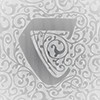
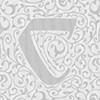
bild für flipside leicht angepasst; weiter aufgeräumt; WeightedEdge durch Edge ersetzt, weil die Gewichtung am Ende doch nicht gebraucht wurde

diff --git a/src/fop/base/Graph.java b/src/fop/base/Graph.java
@@ -19,7 +19,7 @@ import java.util.stream.Collectors;
  */
 public class Graph<T> {
 
-	private List<WeightedEdge<T>> edges;
+	private List<Edge<T>> edges;
 	private List<Node<T>> nodes;
 
 	/**
@@ -57,29 +57,29 @@ public class Graph<T> {
 	 * @return Die erstellte oder bereits vorhandene Kante zwischen beiden gegebenen
 	 *         Knoten
 	 */
-	public WeightedEdge<T> addEdge(Node<T> nodeA, Node<T> nodeB) {
-		WeightedEdge<T> edge = getEdge(nodeA, nodeB);
+	public Edge<T> addEdge(Node<T> nodeA, Node<T> nodeB) {
+		Edge<T> edge = getEdge(nodeA, nodeB);
 		if (edge != null) {
 			return edge;
 		}
 
-		edge = new WeightedEdge<>(nodeA, nodeB);
+		edge = new Edge<>(nodeA, nodeB);
 		this.edges.add(edge);
 		return edge;
 	}
 
-	public WeightedEdge<T> addEdge(Node<T> nodeA, Node<T> nodeB, int weight) {
-		WeightedEdge<T> edge = getEdge(nodeA, nodeB);
+	public Edge<T> addEdge(Node<T> nodeA, Node<T> nodeB, int weight) {
+		Edge<T> edge = getEdge(nodeA, nodeB);
 		if (edge != null) {
 			return edge;
 		}
 
-		edge = new WeightedEdge<>(nodeA, nodeB, weight);
+		edge = new Edge<>(nodeA, nodeB, weight);
 		this.edges.add(edge);
 		return edge;
 	}
 
-	public boolean addAllEdges(Collection<WeightedEdge<T>> edges) {
+	public boolean addAllEdges(Collection<Edge<T>> edges) {
 		return this.edges.addAll(edges); // TODO kann das probleme machen? die methode addEdge prüft vorher noch ob sie
 											// bereits vorhanden ist.
 	}
@@ -98,7 +98,7 @@ public class Graph<T> {
 	 * 
 	 * @return die Liste aller Kanten
 	 */
-	public List<WeightedEdge<T>> getEdges() {
+	public List<Edge<T>> getEdges() {
 		return this.edges;
 	}
 
@@ -123,7 +123,7 @@ public class Graph<T> {
 	 * @see java.util.stream.Stream#collect(Collector)
 	 * @return Die Liste aller zum Knoten zugehörigen Kanten
 	 */
-	public List<WeightedEdge<T>> getEdges(Node<T> node) {
+	public List<Edge<T>> getEdges(Node<T> node) {
 		return this.edges.stream().filter(edge -> edge.contains(node)).collect(Collectors.toList());
 	}
 
@@ -135,7 +135,7 @@ public class Graph<T> {
 	 * @param nodeB Der zweite Knoten
 	 * @return Die Kante zwischen beiden Knoten oder null
 	 */
-	public WeightedEdge<T> getEdge(Node<T> nodeA, Node<T> nodeB) {
+	public Edge<T> getEdge(Node<T> nodeA, Node<T> nodeB) {
 		return this.edges.stream().filter(edge -> (edge.getNodeA() == nodeA && edge.getNodeB() == nodeB)
 				|| (edge.getNodeA() == nodeB && edge.getNodeB() == nodeA)).findFirst().orElse(null);
 	}
@@ -176,8 +176,8 @@ public class Graph<T> {
 
 		while (!queue.isEmpty()) {
 			Node<T> node = queue.pop();
-			List<WeightedEdge<T>> edges = this.getEdges(node);
-			for (WeightedEdge<T> edge : edges) {
+			List<Edge<T>> edges = this.getEdges(node);
+			for (Edge<T> edge : edges) {
 				Node<T> nextNode = edge.getOtherNode(node);
 				if (nodeList.contains(nextNode)) {
 					queue.push(nextNode);

diff --git a/src/fop/model/Gameboard.java b/src/fop/model/Gameboard.java
@@ -23,7 +23,7 @@ import java.util.logging.Logger;
 import java.util.stream.Collectors;
 
 import fop.base.Node;
-import fop.base.WeightedEdge;
+import fop.base.Edge;
 import fop.controller.State;
 
 public class Gameboard extends Observable<Gameboard> {
@@ -340,16 +340,12 @@ public class Gameboard extends Observable<Gameboard> {
 				meeplesPerPlayer.put(meeple, previousMeeplesFromPlayer + 1);
 			}
 
-			List<WeightedEdge<FeatureType>> edges = graph.getEdges(node);
-			for (WeightedEdge<FeatureType> edge : edges) {
+			List<Edge<FeatureType>> edges = graph.getEdges(node);
+			for (Edge<FeatureType> edge : edges) {
 				Node<FeatureType> nextNode = edge.getOtherNode(node);
 				if (((FeatureNode) nextNode).getType() != type)
 					System.out.println("FATAL ERROR LAWL");
 				if (nodeList.contains(nextNode)) {
-					LOG.finer("Adding points of edge connecting a " + node.getValue() + " on " + tile.x + "/" + tile.y
-							+ " and a " + edge.getOtherNode(node).getValue() + ", weight " + edge.getWeight());
-//					score += edge.getWeight();
-
 					queue.push(nextNode);
 					nodeList.remove(nextNode);
 				}
@@ -444,8 +440,8 @@ public class Gameboard extends Observable<Gameboard> {
 			if (node.hasMeeple())
 				return true;
 
-			List<WeightedEdge<FeatureType>> edges = graph.getEdges(node);
-			for (WeightedEdge<FeatureType> edge : edges) {
+			List<Edge<FeatureType>> edges = graph.getEdges(node);
+			for (Edge<FeatureType> edge : edges) {
 				Node<FeatureType> nextNode = edge.getOtherNode(node);
 				if (!visitedNodes.contains(nextNode)) {
 					queue.push(nextNode);

diff --git a/src/fop/model/Tile.java b/src/fop/model/Tile.java
@@ -16,14 +16,14 @@ import java.util.List;
 import java.util.SortedMap;
 import java.util.TreeMap;
 
-import fop.base.WeightedEdge;
+import fop.base.Edge;
 
 public class Tile {
 	private TileType type;
 	private SortedMap<Position, FeatureNode> nodes; // by using a sorted map, the key and value pairs will be sorted
 													// from left to right, top to bottom (following the Position enums
 													// order).
-	private final List<WeightedEdge<FeatureType>> edges;
+	private final List<Edge<FeatureType>> edges;
 	private final boolean pennant;
 	private int rotation;
 	public int x;
@@ -32,14 +32,14 @@ public class Tile {
 	public Tile(TileType type) {
 		this.type = type;
 		nodes = new TreeMap<Position, FeatureNode>();
-		edges = new LinkedList<WeightedEdge<FeatureType>>();
+		edges = new LinkedList<Edge<FeatureType>>();
 		pennant = false;
 	}
 
 	public Tile(TileType type, boolean coatOfArms) {
 		this.type = type;
 		nodes = new TreeMap<Position, FeatureNode>();
-		edges = new LinkedList<WeightedEdge<FeatureType>>();
+		edges = new LinkedList<Edge<FeatureType>>();
 		this.pennant = coatOfArms;
 	}
 
@@ -63,7 +63,7 @@ public class Tile {
 		return false;
 	}
 
-	public boolean addEdge(WeightedEdge<FeatureType> edge) {
+	public boolean addEdge(Edge<FeatureType> edge) {
 		return edges.add(edge);
 	}
 
@@ -83,7 +83,7 @@ public class Tile {
 		return nodes.values();
 	}
 
-	public List<WeightedEdge<FeatureType>> getEdges() {
+	public List<Edge<FeatureType>> getEdges() {
 		return edges;
 	}
 

diff --git a/src/fop/model/TileGenerator.java b/src/fop/model/TileGenerator.java
@@ -13,7 +13,7 @@ import org.w3c.dom.NamedNodeMap;
 import org.w3c.dom.Node;
 import org.w3c.dom.NodeList;
 
-import fop.base.WeightedEdge;
+import fop.base.Edge;
 
 public class TileGenerator {
 
@@ -89,7 +89,7 @@ public class TileGenerator {
 
 						Node node = enl.item(k);
 						NamedNodeMap nodeAttributes = node.getAttributes();
-						newTile.addEdge(new WeightedEdge<FeatureType>(
+						newTile.addEdge(new Edge<FeatureType>(
 								newTile.getNode(Position.valueOf(nodeAttributes.getNamedItem("a").getNodeValue())),
 								newTile.getNode(Position.valueOf(nodeAttributes.getNamedItem("b").getNodeValue()))));
 					}

diff --git a/src/fop/model/FeatureGraph.java b/src/fop/model/FeatureGraph.java
@@ -1,11 +1,11 @@
 package fop.model;
 
-import fop.base.WeightedEdge;
+import fop.base.Edge;
 import fop.base.Graph;
 
 public class FeatureGraph extends Graph<FeatureType> {
 
-	public WeightedEdge<FeatureType> addEdge(FeatureNode nodeA, FeatureNode nodeB, int weight) {
+	public Edge<FeatureType> addEdge(FeatureNode nodeA, FeatureNode nodeB, int weight) {
 		nodeA.setConnectsTiles();
 		nodeB.setConnectsTiles();
 		return super.addEdge(nodeA, nodeB, weight);
